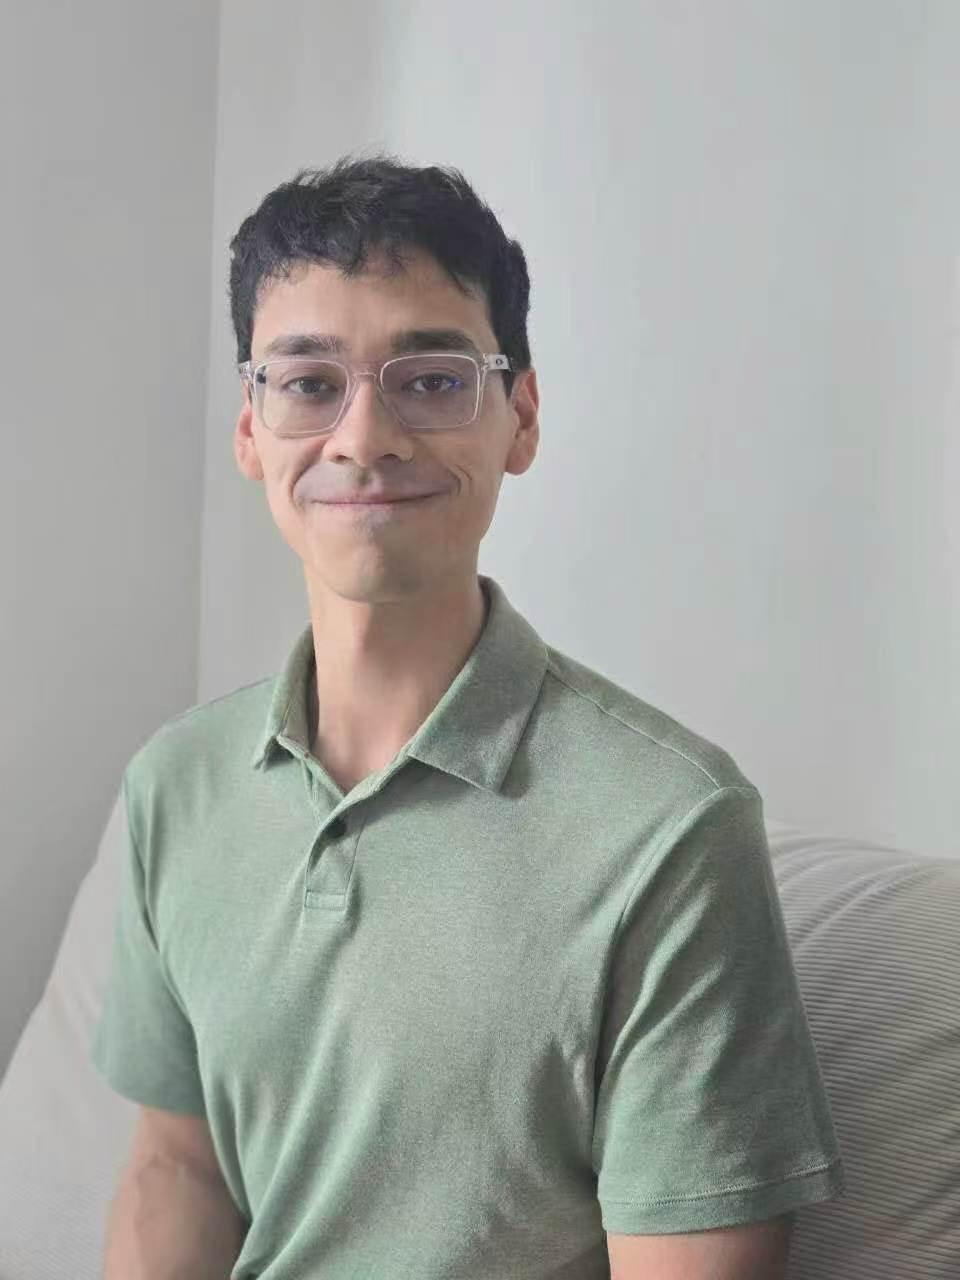
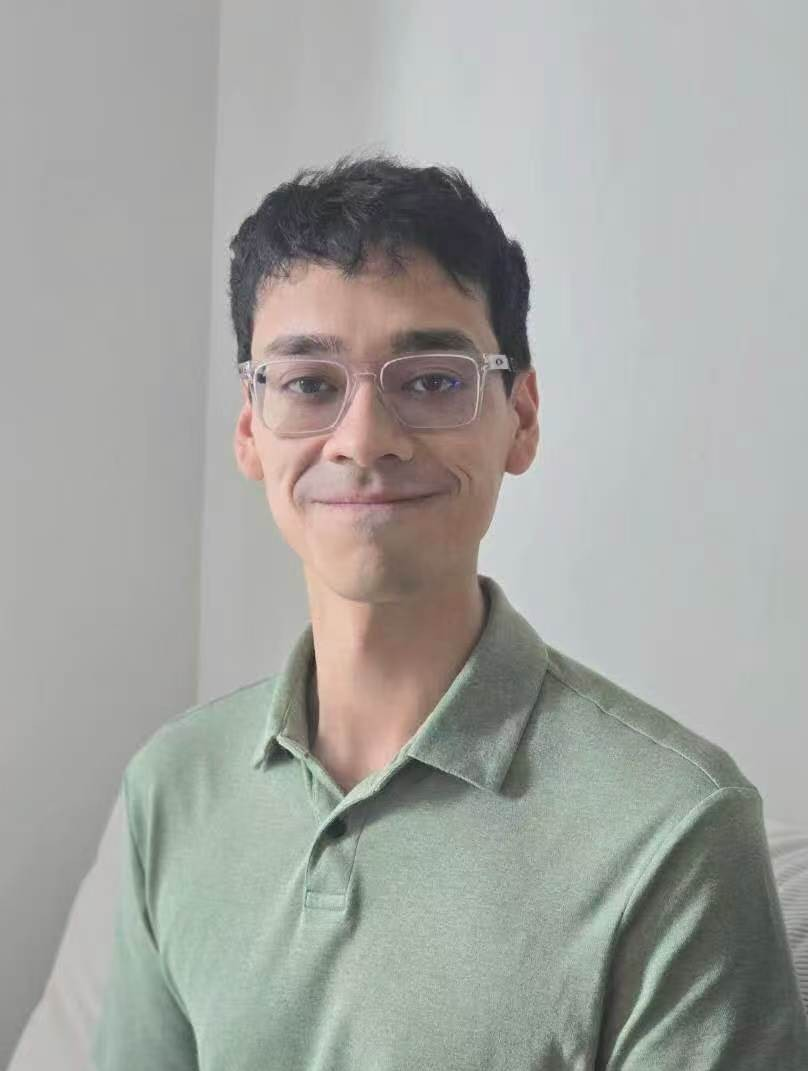
Cropped photo, cleaned up index

diff --git a/index.html b/index.html
@@ -139,6 +139,10 @@
 				background: #2a2f4a;
 			}
 
+			.contact-intro {
+				margin-top: 1em;
+			}
+
 			.about-layout {
 				display: grid;
 				gap: 3em;
@@ -402,7 +406,7 @@
 									<header class="major">
 										<h2>Let's build something useful.</h2>
 									</header>
-									<p>I'm based in Calgary, Alberta and open to conversations about embedded systems, IoT products, cross-functional engineering, and technical leadership.</p>
+									<p class="contact-intro">I'm based in Calgary, Alberta and open to conversations about embedded systems, IoT products, cross-functional engineering, and technical leadership.</p>
 									<ul class="actions">
 										<li><a href="mailto:aidanbjelke@gmail.com" class="button primary">Email me</a></li>
 										<li><a href="https://www.linkedin.com/in/aidan-bjelke/" class="button" target="_blank" rel="noopener noreferrer">LinkedIn</a></li>
@@ -421,7 +425,6 @@
 							</ul>
 							<ul class="copyright">
 								<li>&copy; Aidan Bjelke</li>
-								<li>Design adapted from <a href="https://html5up.net" target="_blank" rel="noopener noreferrer">HTML5 UP</a></li>
 							</ul>
 						</div>
 					</footer>
